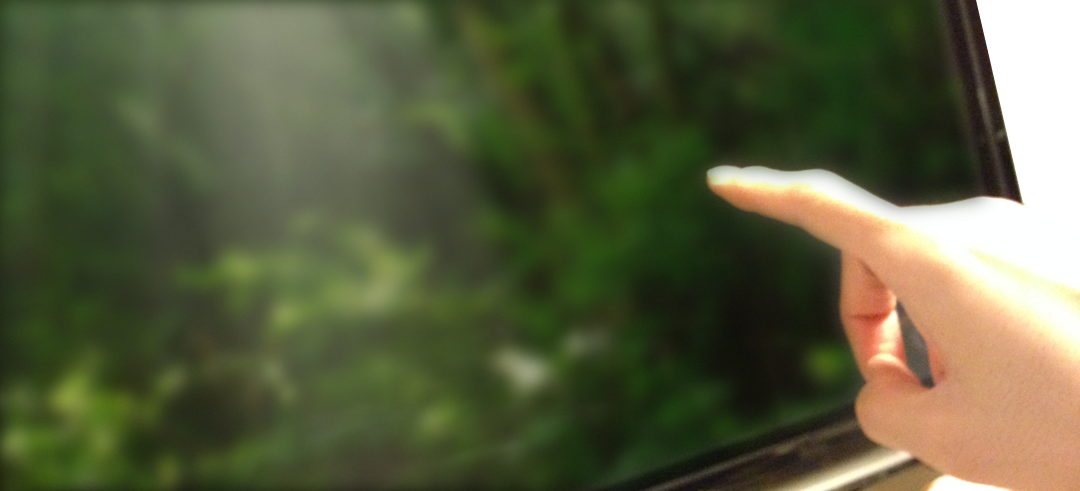
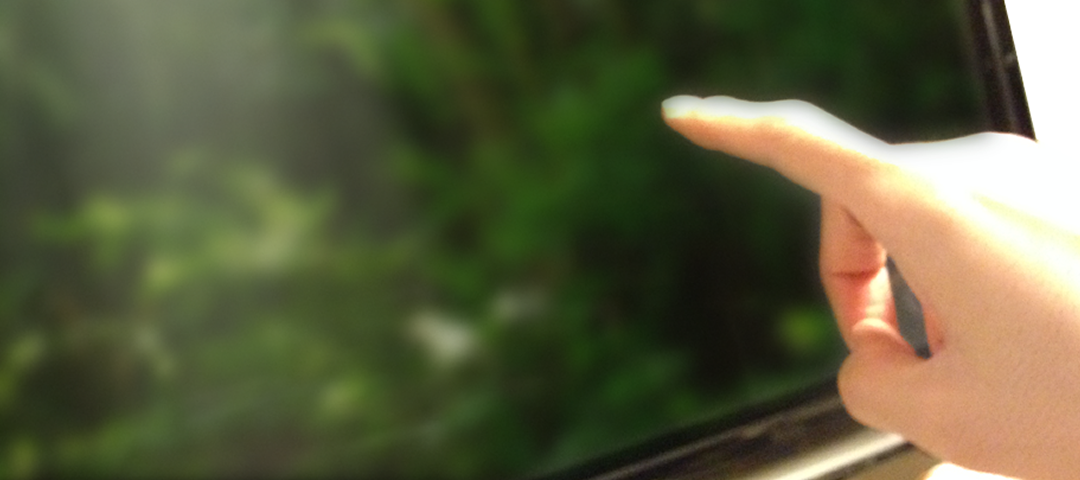
Set mainvisual

diff --git a/style.css b/style.css
@@ -17,7 +17,10 @@ a {
 @font-face {
   font-family: 'GillSans';
   src: local("GillSans");
-  src: url("fonts/GillSans.ttc"); }
+  src: url("fonts/GillSans.ttc");
+  font-family: 'MyriadWebPro';
+  src: local("MyriadWebPro.ttf");
+  src: url("fonts/MyriadWebPro.ttf"); }
 
 body {
   background: #AAA;
@@ -62,12 +65,33 @@ header {
   margin: 0 auto;
   width: 100%;
   min-width: 1080px;
-  height: 491px;
+  height: 480px;
   background: url(images/mainvisual.png) no-repeat;
-  background-size: 100% auto; }
+  background-size: 100% auto;
+  background-position: center top; }
   .mainvisual h1 {
+    float: left;
+    margin-top: 115px;
+    margin-left: 77px;
+    width: 100%;
+    letter-spacing: 2px;
     font-size: 81px;
+    font-weight: normal;
+    font-family: "MyriadWebPro";
     color: white;
-    text-shadow: -1px -1px white, 1px 1px #444; }
+    text-shadow: -1px -1px white, 1px 1px #444;
+    clear: both; }
     .mainvisual h1:first-letter {
-      font-size: 96px; }
+      font-size: 96px;
+      font-weight: bold; }
+  .mainvisual p {
+    float: left;
+    margin-top: 53px;
+    margin-left: 160px;
+    text-align: right;
+    font-size: 30px;
+    font-weight: normal;
+    color: white;
+    font-size: 30px; }
+    .mainvisual p big {
+      font-size: 37px; }

diff --git a/style.scss b/style.scss
@@ -20,8 +20,11 @@ a {
 /*-- common --*/
 @font-face {
 	font-family: 'GillSans';
-	src: local('GillSans');
-	src: url('fonts/GillSans.ttc');
+		src: local('GillSans');
+		src: url('fonts/GillSans.ttc');
+	font-family: 'MyriadWebPro';
+		src: local('MyriadWebPro.ttf');
+		src: url('fonts/MyriadWebPro.ttf');
 }
 body {
 	background: #AAA;
@@ -75,15 +78,38 @@ header {
 	margin: 0 auto;
 	width: 100%;
 	min-width: 1080px;
-	height: 491px;
+	height: 480px;
 	background: url(images/mainvisual.png) no-repeat;
 	background-size: 100% auto;
+	background-position: center top;
 	h1 {
+		float: left;
+		margin-top: 115px;
+		margin-left: 77px;
+		width: 100%;
+		letter-spacing: 2px;
 		font-size: 81px;
+		font-weight: normal;
+		font-family: "MyriadWebPro";
 		color: white;
 		text-shadow: -1px -1px white, 1px 1px #444;
+		clear: both;
 		&:first-letter {
 			font-size: 96px;
+			font-weight: bold;
+		}
+	}
+	p {
+		float: left;
+		margin-top: 53px;
+		margin-left: 160px;
+		text-align: right;
+		font-size: 30px;
+		font-weight: normal;
+		color: white;
+		font-size: 30px;
+		big {
+			font-size: 37px;
 		}
 	}
 }

diff --git a/index.html b/index.html
@@ -33,8 +33,10 @@
 		</div>
 	</header>
 	<div class="mainvisual">
-		<h1>Conductor</h1>
-		<p>Controll TV as you like<br>by your finger.</p>
+		<div class="inner">
+			<h1>Conductor</h1>
+			<p><big>The magic finger</big><br>to conduct your TV.</p>
+		</div>
 	</div>
 </body>
 </html>
